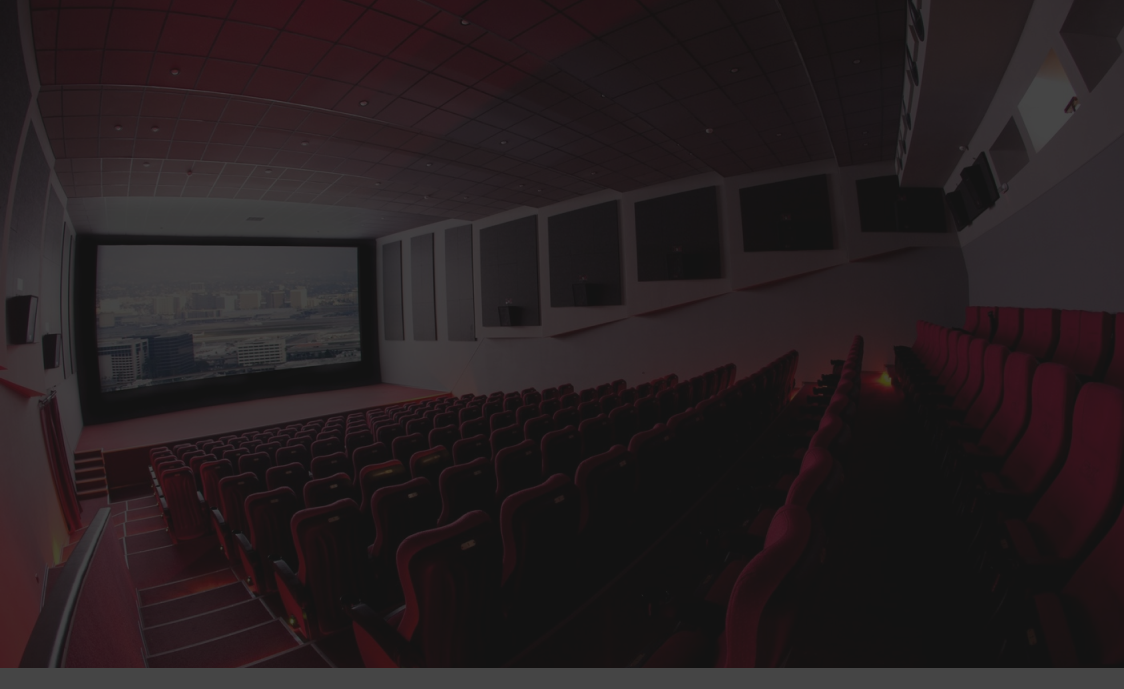
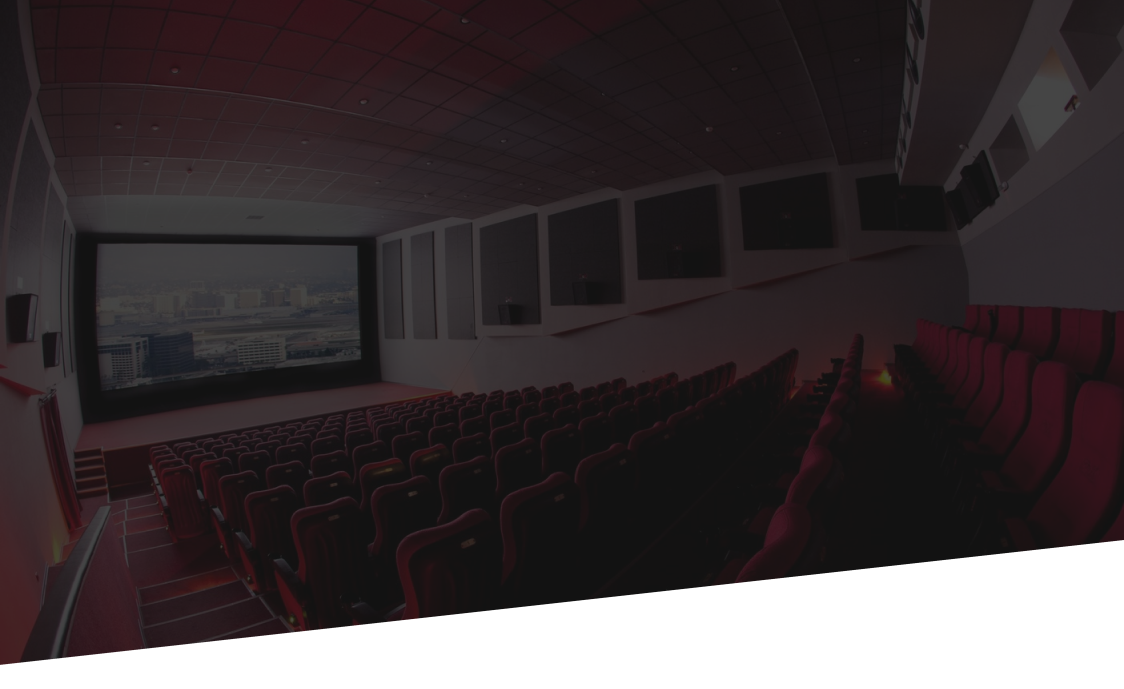
change bgpic

Changed region(s): [[0.0, 0.762, 1.0, 1.0], [0.218, 0.4877, 0.2491, 0.5181], [0.1246, 0.6401, 0.1557, 0.6705]]

diff --git a/css/style.css b/css/style.css
@@ -5,7 +5,7 @@
 }
 
 .header{
-    background: url("");
+    background-image: url("./images/Background Picture-cinema.png");
     width: 1171px;
     height: 728px;
 }
